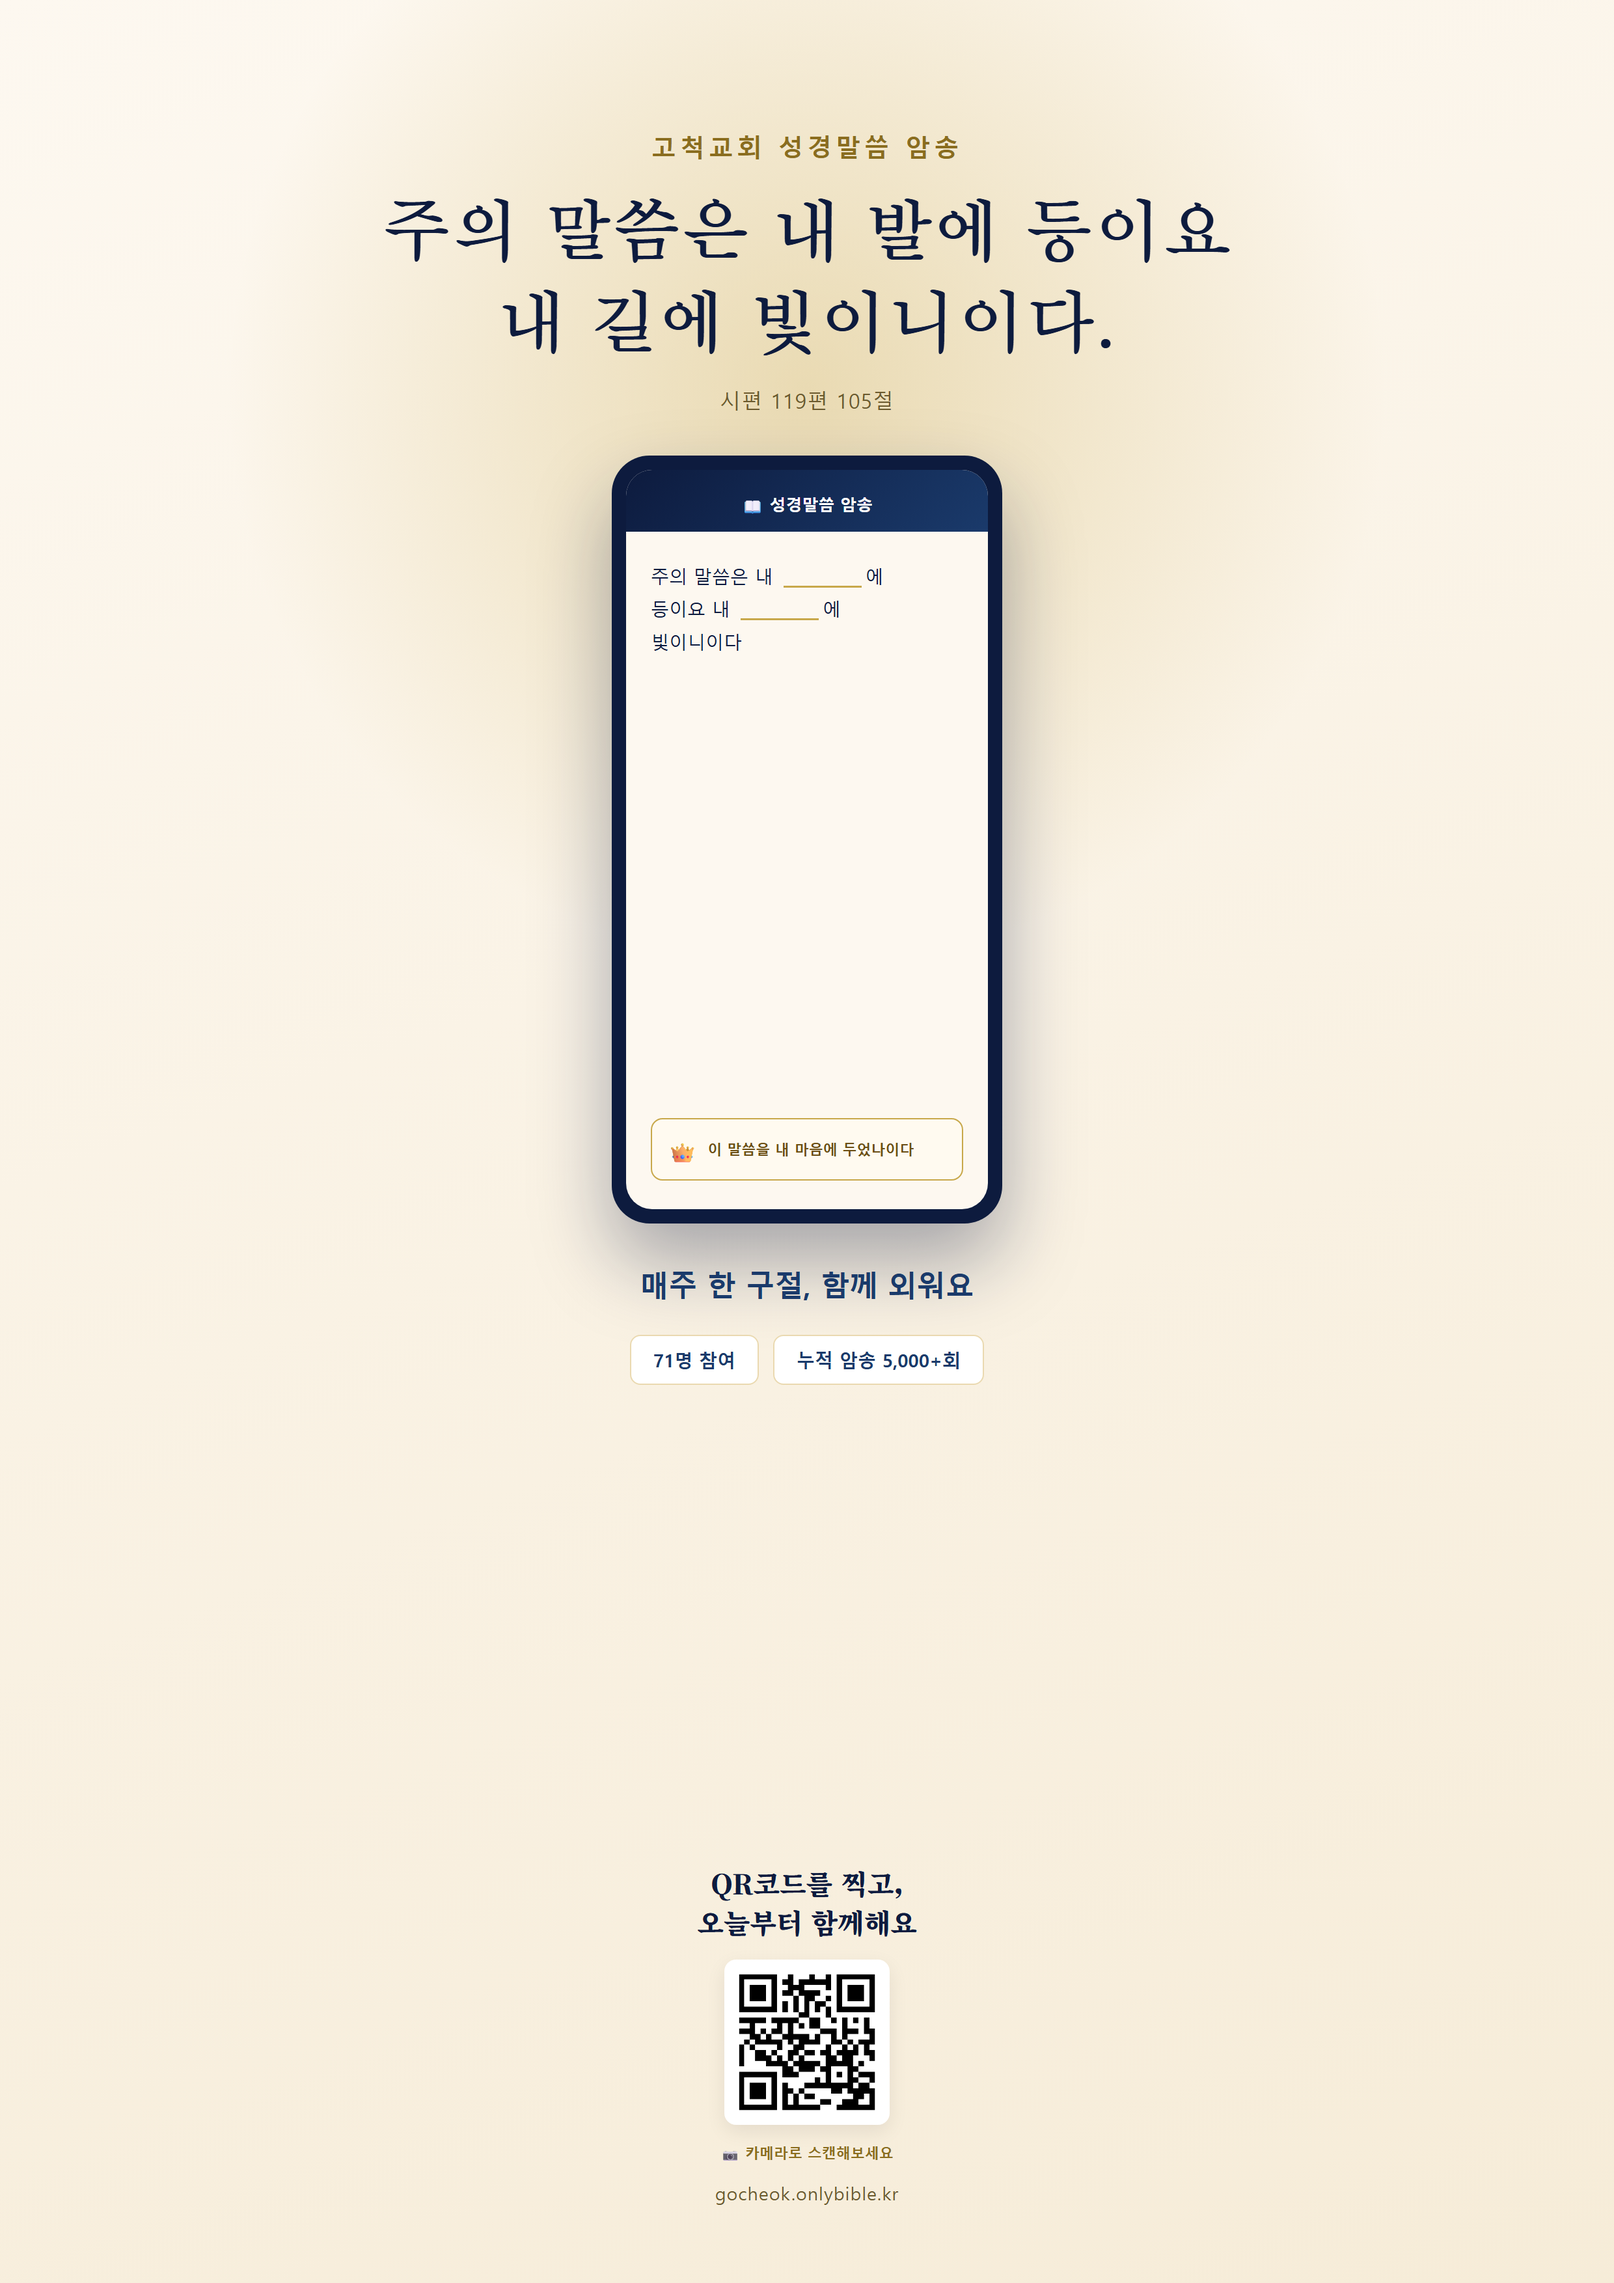
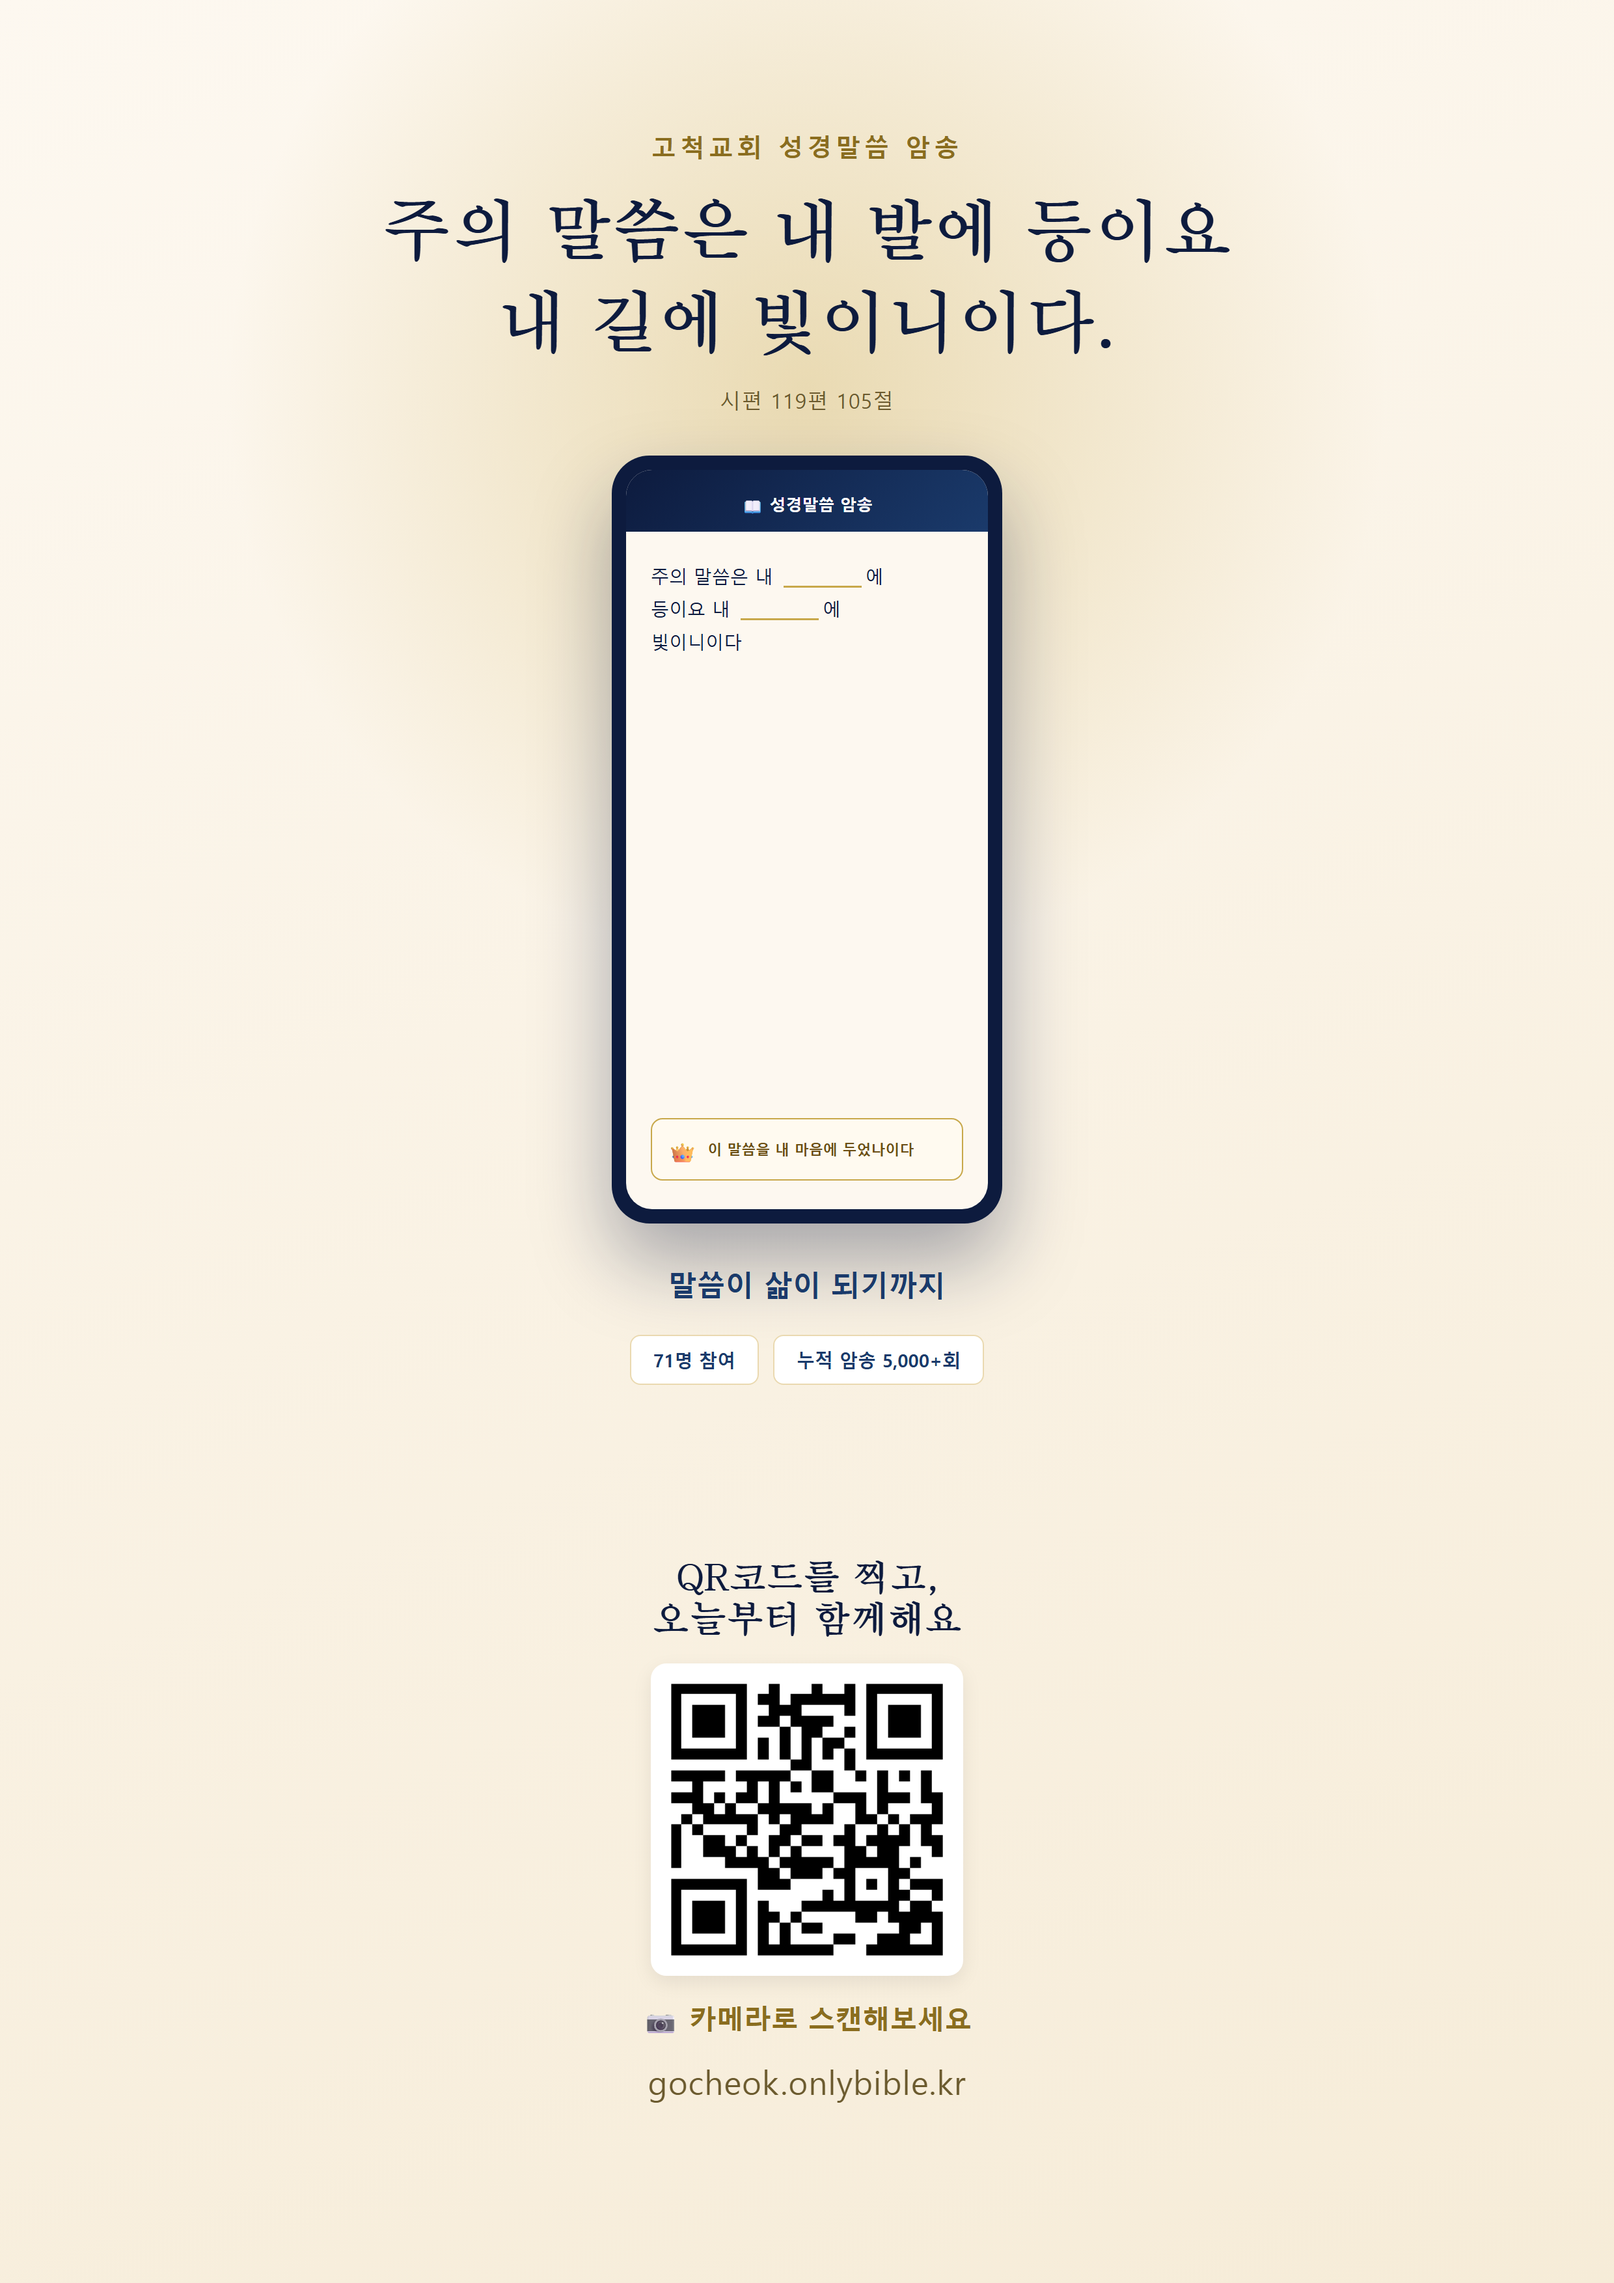
fix(홍보 소재): 서브카피 변경 + 최종 검토 지적사항 반영
- 서브카피: 매주 한 구절, 함께 외워요 -> 말씀이 삶이 되기까지
- 세로 포스터 하단 여백 축소, QR/안내문구 크기 확대(가독성)
- 엔드카드 CTA 폰트를 포스터와 동일한 명조체로 통일

Changed region(s): [[0.4036, 0.6836, 0.621, 0.9632], [0.4036, 0.5593, 0.5899, 0.5904]]

diff --git a/marketing/poster-vertical.html b/marketing/poster-vertical.html
@@ -53,12 +53,12 @@
   .invite { font-size: 44px; color: #1a3a6b; font-weight: 700; margin-bottom: 48px; }
   .stats { display:flex; gap:22px; margin-bottom: 64px; }
   .stat-chip { background: #fff; border: 2px solid #ead9b0; border-radius: 16px; padding: 18px 34px; font-size: 28px; color: #1a3a6b; font-weight:700; }
-  .footer { margin-top: auto; display:flex; flex-direction:column; align-items:center; gap:28px; }
-  .cta { font-size: 42px; font-weight:800; color:#0d1b3e; font-family:"Nanum Myeongjo",serif; text-align:center; }
-  .qr-wrap { background:#fff; padding:22px; border-radius:18px; box-shadow:0 10px 30px rgba(0,0,0,0.08); }
-  .qr-wrap img { width: 210px; height:210px; display:block; }
-  .qr-hint { font-size: 22px; font-weight:700; color:#8a6d1f; }
-  .url { font-size: 28px; color:#6b5a2e; letter-spacing:1px; }
+  .footer { margin-top: 200px; display:flex; flex-direction:column; align-items:center; gap:36px; }
+  .cta { font-size: 56px; font-weight:800; color:#0d1b3e; font-family:"Batang","Nanum Myeongjo",serif; text-align:center; }
+  .qr-wrap { background:#fff; padding:30px; border-radius:24px; box-shadow:0 10px 30px rgba(0,0,0,0.08); }
+  .qr-wrap img { width: 420px; height:420px; display:block; }
+  .qr-hint { font-size: 42px; font-weight:700; color:#8a6d1f; }
+  .url { font-size: 50px; color:#6b5a2e; letter-spacing:1px; }
 </style>
 </head>
 <body>
@@ -81,7 +81,7 @@
       </div>
     </div>
 
-    <div class="invite">매주 한 구절, 함께 외워요</div>
+    <div class="invite">말씀이 삶이 되기까지</div>
     <div class="stats">
       <div class="stat-chip">71명 참여</div>
       <div class="stat-chip">누적 암송 5,000+회</div>

diff --git a/marketing/poster-horizontal.html b/marketing/poster-horizontal.html
@@ -15,7 +15,7 @@
   .stats { display:flex; gap:16px; margin-bottom:44px; }
   .stat-chip { background:#fff; border:2px solid #ead9b0; border-radius:14px; padding:14px 26px; font-size:21px; color:#1a3a6b; font-weight:700; }
   .footer-row { display:flex; align-items:center; gap:26px; }
-  .cta { font-size:28px; font-weight:800; color:#0d1b3e; font-family:"Nanum Myeongjo",serif; line-height:1.4; }
+  .cta { font-size:28px; font-weight:800; color:#0d1b3e; font-family:"Batang","Nanum Myeongjo",serif; line-height:1.4; }
   .qr-group { display:flex; flex-direction:column; align-items:center; gap:8px; }
   .qr-wrap { background:#fff; padding:13px; border-radius:14px; box-shadow:0 8px 24px rgba(0,0,0,0.08); }
   .qr-wrap img { width:104px; height:104px; display:block; }
@@ -41,7 +41,7 @@
       <div class="kicker">고척교회 성경말씀 암송</div>
       <div class="headline">주의 말씀은<br>내 발에 등이요<br>내 길에 빛이니이다.</div>
       <div class="verse-ref">시편 119편 105절</div>
-      <div class="invite">매주 한 구절, 함께 외워요</div>
+      <div class="invite">말씀이 삶이 되기까지</div>
       <div class="stats">
         <div class="stat-chip">71명 참여</div>
         <div class="stat-chip">누적 암송 5,000+회</div>

diff --git a/marketing/video-endcard.html b/marketing/video-endcard.html
@@ -19,7 +19,7 @@
   .logo-wrap { background:#fff; padding:36px 44px; border-radius:28px; z-index:1; box-shadow:0 20px 50px rgba(0,0,0,.28); }
   .logo-wrap img { width:220px; height:auto; display:block; }
   .app-title { font-family:"Batang","Nanum Myeongjo",serif; font-size:46px; font-weight:700; color:#fff; letter-spacing:2px; z-index:1; }
-  .cta { font-size:36px; font-weight:800; color:#f0dca0; z-index:1; text-align:center; }
+  .cta { font-size:36px; font-weight:800; color:#f0dca0; font-family:"Batang","Nanum Myeongjo",serif; z-index:1; text-align:center; }
   .qr-group { display:flex; flex-direction:column; align-items:center; gap:14px; z-index:1; }
   .qr-wrap { background:#fff; padding:24px; border-radius:20px; }
   .qr-wrap img { width:240px; height:240px; display:block; }
